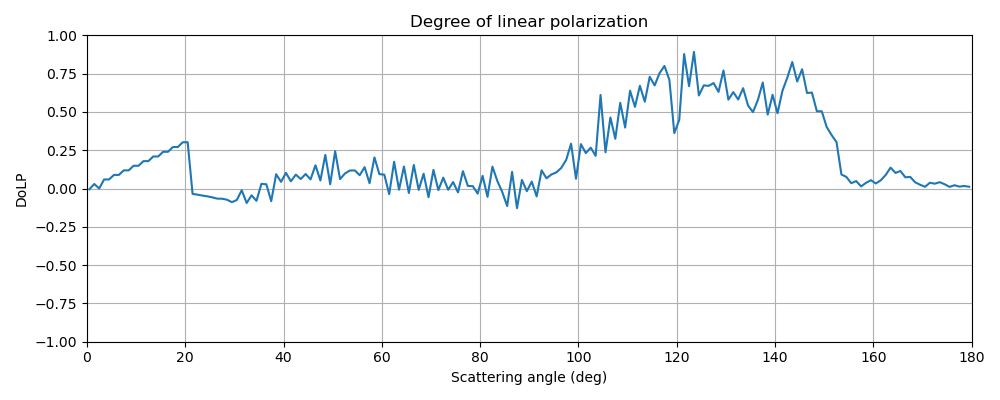
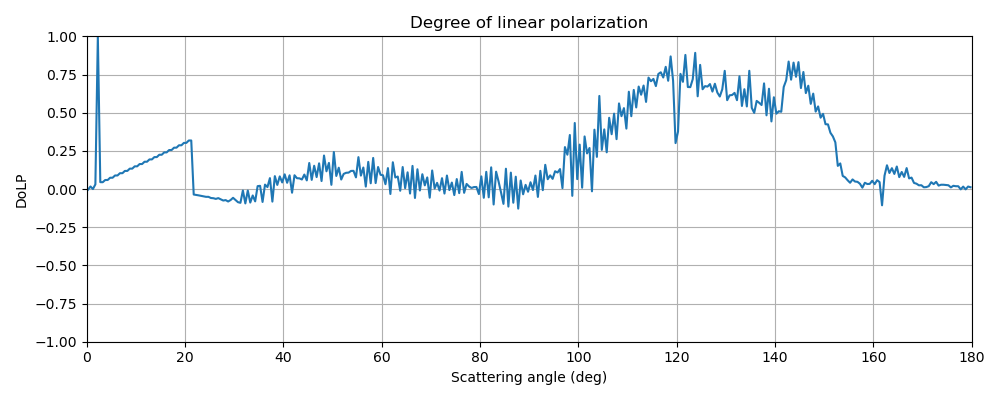
MB commit

diff --git a/hexagon_gpt.py b/hexagon_gpt.py
@@ -203,10 +203,10 @@ if __name__ == "__main__":
     result = simulate(
         a=1.0,
         n_ice=1.31,
-        n_rays=600,
-        dtheta_deg=1.0,
+        n_rays=1000,
+        dtheta_deg=0.5,
         max_hits=15,
         cutoff=1e-7,
-        scatter_bin_deg=1.0,
+        scatter_bin_deg=0.5,
     )
     plot_results(result)
